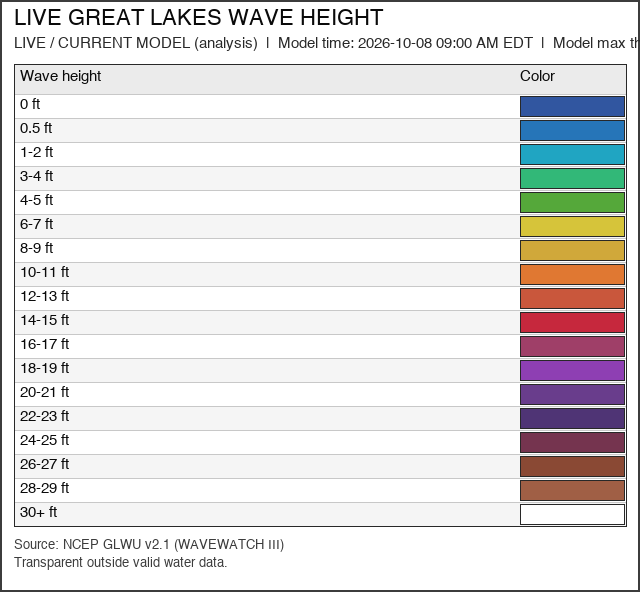
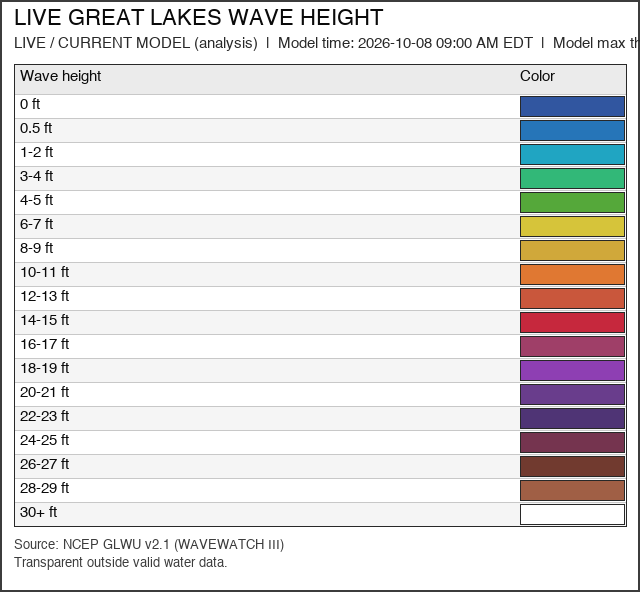
Live Wave Height: 26-27 ft #713A2F, low-end bin rules, narrative buoy description under legend

Changed region(s): [[0.8125, 0.7601, 1.0, 0.8209]]

diff --git a/scripts/build_wave_height.py b/scripts/build_wave_height.py
@@ -58,10 +58,14 @@ def _hex_rgb(h):
 # (its 2-ft step up to the next row's lower edge), so values such as
 # 5.5 ft, 7.5 ft, etc. always land in exactly one fixed color. Every
 # rendered pixel wears its bin's exact hex -- never blended.
+# Low-end unwritten rule: [0, 0.2) shows the "0 ft" color (covers 0
+# and 0.1); [0.2, 0.7) shows the "0.5 ft" color (covers the 0.2-0.6
+# rule); [0.7, 3.0) shows the "1-2 ft" color (covers the 0.7-1.0 rule,
+# then the whole step up to 3 ft).
 WAVE_FIXED_BINS = [
-    ("0 ft", "#3156A0", 0.0, 0.5),
-    ("0.5 ft", "#2675B8", 0.5, 1.0),
-    ("1-2 ft", "#20A5C2", 1.0, 3.0),
+    ("0 ft", "#3156A0", 0.0, 0.2),
+    ("0.5 ft", "#2675B8", 0.2, 0.7),
+    ("1-2 ft", "#20A5C2", 0.7, 3.0),
     ("3-4 ft", "#32B878", 3.0, 4.0),
     ("4-5 ft", "#55A83A", 4.0, 6.0),
     ("6-7 ft", "#D6C43A", 6.0, 8.0),
@@ -74,7 +78,7 @@ WAVE_FIXED_BINS = [
     ("20-21 ft", "#693D8C", 20.0, 22.0),
     ("22-23 ft", "#4F3475", 22.0, 24.0),
     ("24-25 ft", "#75344F", 24.0, 26.0),
-    ("26-27 ft", "#8A4934", 26.0, 28.0),
+    ("26-27 ft", "#713A2F", 26.0, 28.0),
     ("28-29 ft", "#A05F45", 28.0, 30.0),
     ("30+ ft", "#FFFFFF", 30.0, float("inf")),
 ]
@@ -86,7 +90,7 @@ WAVE_FIXED_RGB = [_hex_rgb(hx) for _, hx, _, _ in WAVE_FIXED_BINS]
 assert [hx for _, hx, _, _ in WAVE_FIXED_BINS] == [
     "#3156A0", "#2675B8", "#20A5C2", "#32B878", "#55A83A", "#D6C43A",
     "#D0A83A", "#E07832", "#C9573C", "#C6283D", "#9F3F68", "#8E3FB3",
-    "#693D8C", "#4F3475", "#75344F", "#8A4934", "#A05F45", "#FFFFFF"], \
+    "#693D8C", "#4F3475", "#75344F", "#713A2F", "#A05F45", "#FFFFFF"], \
     "wave-height fixed hexes must match the user table verbatim"
 assert all(WAVE_FIXED_BINS[i][2] < WAVE_FIXED_BINS[i][3]
            and WAVE_FIXED_BINS[i][3] == WAVE_FIXED_BINS[i + 1][2]
@@ -99,7 +103,7 @@ def wave_bin_index(values_ft):
     import numpy as _np
     v = _np.asarray(values_ft, dtype=float)
     idx = _np.searchsorted(
-        _np.array([0.5, 1.0, 3.0, 4.0, 6.0, 8.0, 10.0, 12.0, 14.0,
+        _np.array([0.2, 0.7, 3.0, 4.0, 6.0, 8.0, 10.0, 12.0, 14.0,
                    16.0, 18.0, 20.0, 22.0, 24.0, 26.0, 28.0, 30.0]),
         v, side="right")
     idx = _np.clip(idx, 0, 17).astype(int)
@@ -121,6 +125,41 @@ def render_wave_fixed(field, alpha):
     rgba[ok, 0:3] = lut[idx[ok]]
     rgba[ok, 3] = alpha
     return rgba
+
+
+def build_scale_html(run_max):
+    """Legend description HTML: fixed-bin list, unwritten rules, buoy
+    pointer + how buoys measure wave height. Shared by the builder and
+    any offline re-render so the text can never drift between them."""
+    return (f"Wave height (feet, 18 fixed colors): <b>0 ft</b> → "
+            f"<b>0.5 ft</b> → <b>1-2 ft</b> → <b>3-4 ft</b> → "
+            f"<b>4-5 ft</b> → <b>6-7 ft</b> → <b>8-9 ft</b> → "
+            f"<b>10-11 ft</b> → <b>12-13 ft</b> → <b>14-15 ft</b> → "
+            f"<b>16-17 ft</b> → <b>18-19 ft</b> → <b>20-21 ft</b> → "
+            f"<b>22-23 ft</b> → <b>24-25 ft</b> → <b>26-27 ft</b> → "
+            f"<b>28-29 ft</b> → <b>30+ ft</b> (white). Every pixel "
+            f"shows its bin's exact color; the legend is the full "
+            f"table. Unwritten rules: <b>0 and 0.1 ft</b> show as "
+            f"<b>0 ft</b>; <b>0.2 to 0.6 ft</b> "
+            f"show as <b>0.5 ft</b>; <b>0.7 to 1 ft"
+            f"</b> show as <b>1-2 ft</b>. Each 2-ft "
+            f"label covers its full step up to the next row (e.g. the "
+            f"4-5 ft color covers 4 up to 6 ft), so every value lands "
+            f"in exactly one color. Model maximum this run: "
+            f"<b>{run_max} ft</b>. Values above 30 ft stay white. "
+            f"Significant height = average of highest third of waves. "
+            f"For more precise wave height data, turn on the NOAA Great "
+            f"Lakes Observation Network layer: its buoys report observed "
+            f"wave height at their exact locations, while this layer shows "
+            f"the wave model everywhere. How the buoys measure it: "
+            f"significant wave height (WVHT) is the average of the highest "
+            f"one-third of the waves recorded during a 20-minute sampling "
+            f"period each hour. Accelerometers on the hull "
+            f"record its heave motion, an onboard FFT converts that motion "
+            f"into a wave-energy spectrum, and the height is derived from "
+            f"that spectrum; buoy reports cover combined wind waves and "
+            f"swell. Great Lakes buoys are seasonal and are hauled out "
+            f"before ice season, so winter gaps are normal.")
 
 
 def draw_wave_height_table(path, title, subtitle, source_line, note=None):
@@ -423,17 +462,7 @@ def _build(got, used_url, datestr, cycle, raw_path):
 
     np.savez_compressed(os.path.join(RAW_DIR, f"{PRODUCT}_field.npz"),
                         lats=lats, lons=lons, values=values_ft)
-    scale_html = (f"Wave height (feet, 18 fixed colors): <b>0 ft</b> → "
-                  f"<b>0.5 ft</b> → <b>1-2 ft</b> → <b>3-4 ft</b> → "
-                  f"<b>4-5 ft</b> → <b>6-7 ft</b> → <b>8-9 ft</b> → "
-                  f"<b>10-11 ft</b> → <b>12-13 ft</b> → <b>14-15 ft</b> → "
-                  f"<b>16-17 ft</b> → <b>18-19 ft</b> → <b>20-21 ft</b> → "
-                  f"<b>22-23 ft</b> → <b>24-25 ft</b> → <b>26-27 ft</b> → "
-                  f"<b>28-29 ft</b> → <b>30+ ft</b> (white). Every pixel "
-                  f"shows its bin's exact color; the legend is the full "
-                  f"table. Model maximum this run: <b>{run_max} ft</b>. "
-                  f"Values above 30 ft stay white. "
-                  f"Significant height = average of highest third of waves.")
+    scale_html = build_scale_html(run_max)
     meta["legend_scale_html"] = scale_html
     write_metadata(stage_prod, meta)  # re-write incl. buoy QC + legend text
 

diff --git a/scripts/geospatial_utils.py b/scripts/geospatial_utils.py
@@ -165,7 +165,7 @@ def utcnow_iso():
 # Render generation: bump to force every product through one full rebuild
 # (legends/KMLs bake display text in at build time). Skip logic also keys
 # on the source id, so this only ever causes a single extra build.
-RENDER_VERSION = 4
+RENDER_VERSION = 9
 
 
 def detroit_tz():
